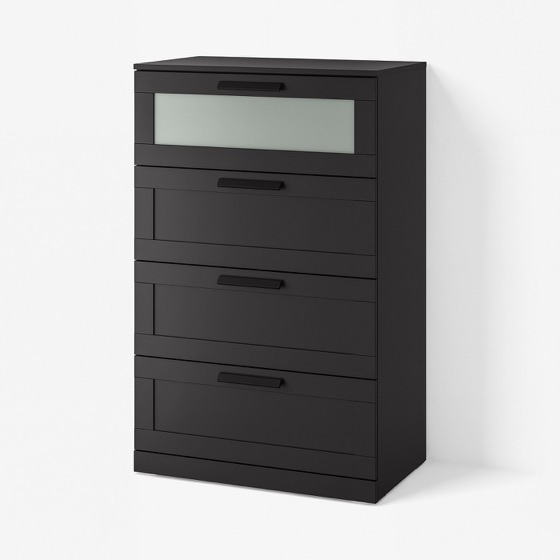
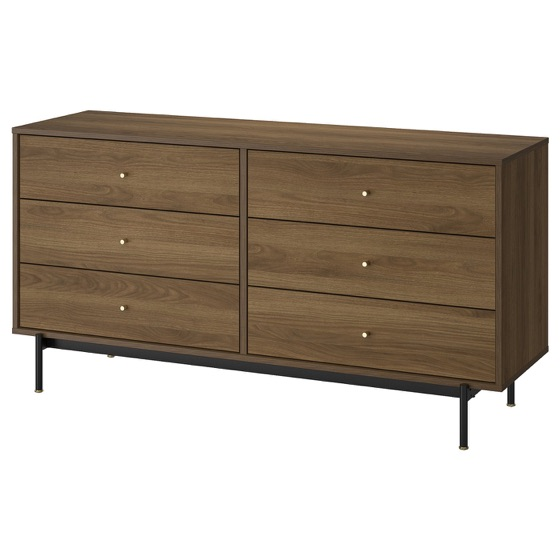
Deck: cut-out furniture, black/white/gray frosted-glass theme
- scripts/cutout_tiles.py removes the white studio background (local, no API)
- 16 product tiles are transparent PNGs with a soft shadow; dresser swapped
  for one with a clean backdrop
- THEME overrides: neutral palette, black pill buttons, glass nav/cards/footer,
  no lime; hide the sun doodle (no 'o' in Elephant)

diff --git a/deck/src/components/ui/loupe-curator-landing.tsx b/deck/src/components/ui/loupe-curator-landing.tsx
@@ -461,6 +461,21 @@ const CSS =
 
 /* ----------------------------------------------------------------- fonts */
 // Inter Tight (400, 700) and JetBrains Mono (500), both SIL OFL 1.1, subset and renamed per the licence.
+// Elephant look: black / white / gray with frosted glass, products as cut-outs (matches the app)
+const THEME =
+  ".lcl-root{--paper:#ececec;--ink:#141414;--soft:#8a8a8a;--card:rgba(255,255,255,.6);--lime:#141414;--onlime:#fff;--band:#d2d2d2;--rule:rgba(20,20,20,.12)}" +
+  ".dark .lcl-root{--paper:#111;--ink:#ececec;--soft:#8a8a8a;--card:rgba(34,34,34,.6);--lime:#ececec;--onlime:#111;--band:#2a2a2a;--rule:rgba(255,255,255,.12)}" +
+  ".lcl-root[data-golden]{--lime:#8a8a8a}" +
+  ".lcl-img.lcl-prod{background:transparent;padding:6%;filter:drop-shadow(0 16px 18px rgba(0,0,0,.16))}" +
+  ".lcl-th>img,.lcl-ft>img,.lcl-sc,.lcl-tile,.lcl-fly{box-shadow:none}" +
+  ".lcl-pic{border-radius:16px;background:linear-gradient(180deg,rgba(255,255,255,.75),rgba(255,255,255,.35));box-shadow:inset 0 0 0 1px rgba(255,255,255,.7)}" +
+  ".lcl-nav,.lcl-chip,.lcl-fcard,.lcl-plus,.lcl-grid{backdrop-filter:blur(26px) saturate(1.1);-webkit-backdrop-filter:blur(26px) saturate(1.1);box-shadow:inset 0 0 0 1px rgba(255,255,255,.55),0 12px 34px rgba(0,0,0,.08)}" +
+  ".lcl-nav{border-radius:999px;padding-left:20px}.lcl-btn{border-radius:999px}.lcl-chip{border-radius:999px}.lcl-plus{border-radius:50%}" +
+  ".lcl-grid{border-radius:28px 28px 0 0}.lcl-fcard{border-radius:28px}" +
+  ".lcl-bit:nth-child(3n){background:#9a9a9a}.lcl-bit:nth-child(4n){background:#141414}" +
+  ".lcl-clab{border-radius:999px}" +
+  ".lcl-root .lcl-btn-lime,.lcl-root .lcl-plus[data-on],.lcl-root .lcl-clab{background:var(--ink);color:var(--paper)}"
+
 const FONTS =
[2 lines of base64/hex data omitted]
@@ -1052,7 +1067,7 @@ export default function LoupeCuratorLanding({
       onPointerMove={onMove}
       onPointerLeave={onLeave}
     >
-      <style>{FONTS + CSS}</style>
+      <style>{FONTS + CSS + THEME}</style>
 
       {/* floating chrome */}
       <div className="lcl-chrome" ref={reg("chrome")}>
@@ -1314,9 +1329,11 @@ export default function LoupeCuratorLanding({
           </div>
           <p className="lcl-big2" aria-label={brand}>
             {sunAt < 0 ? brand : brand.slice(0, sunAt)}
-            <button type="button" className="lcl-sun" onClick={poke} data-cursor="Poke the sun" aria-label="Poke the sun">
-              <Sun />
-            </button>
+            {sunAt >= 0 && (
+              <button type="button" className="lcl-sun" onClick={poke} data-cursor="Poke the sun" aria-label="Poke the sun">
+                <Sun />
+              </button>
+            )}
             {sunAt < 0 ? null : brand.slice(sunAt + 1)}
           </p>
           <div className="lcl-frow lcl-mono">
@@ -1355,20 +1372,20 @@ const IMG: Record<string, string> = {
   "scene-3": "/img/scene-3.jpg",
   "scene-4": "/img/scene-4.jpg",
   "scene-5": "/img/scene-5.jpg",
-  "tile-sofa": "/img/tile-sofa.jpg",
-  "tile-armchair": "/img/tile-armchair.jpg",
-  "tile-coffee": "/img/tile-coffee.jpg",
-  "tile-side": "/img/tile-side.jpg",
-  "tile-floorlamp": "/img/tile-floorlamp.jpg",
-  "tile-pendant": "/img/tile-pendant.jpg",
-  "tile-rug": "/img/tile-rug.jpg",
-  "tile-shelf": "/img/tile-shelf.jpg",
-  "tile-bed": "/img/tile-bed.jpg",
-  "tile-nightstand": "/img/tile-nightstand.jpg",
-  "tile-dresser": "/img/tile-dresser.jpg",
-  "tile-desk": "/img/tile-desk.jpg",
-  "tile-dchair": "/img/tile-dchair.jpg",
-  "tile-stool": "/img/tile-stool.jpg",
-  "tile-mirror": "/img/tile-mirror.jpg",
-  "tile-cabinet": "/img/tile-cabinet.jpg",
+  "tile-sofa": "/img/tile-sofa.png",
+  "tile-armchair": "/img/tile-armchair.png",
+  "tile-coffee": "/img/tile-coffee.png",
+  "tile-side": "/img/tile-side.png",
+  "tile-floorlamp": "/img/tile-floorlamp.png",
+  "tile-pendant": "/img/tile-pendant.png",
+  "tile-rug": "/img/tile-rug.png",
+  "tile-shelf": "/img/tile-shelf.png",
+  "tile-bed": "/img/tile-bed.png",
+  "tile-nightstand": "/img/tile-nightstand.png",
+  "tile-dresser": "/img/tile-dresser.png",
+  "tile-desk": "/img/tile-desk.png",
+  "tile-dchair": "/img/tile-dchair.png",
+  "tile-stool": "/img/tile-stool.png",
+  "tile-mirror": "/img/tile-mirror.png",
+  "tile-cabinet": "/img/tile-cabinet.png",
 }

diff --git a/scripts/cutout_tiles.py b/scripts/cutout_tiles.py
@@ -1,0 +1,57 @@
+"""Remove the white studio background from product photos -> transparent PNGs.
+
+IKEA product shots sit on pure white. We flood-fill the near-white area that touches the image border
+(so white parts *inside* the product survive), fade it out, keep the soft floor shadow as a light
+translucent gray, and trim to the product.
+
+    python3 scripts/cutout_tiles.py deck/public/img/tile-*.jpg     # needs Pillow, numpy, scipy
+"""
+import sys
+from pathlib import Path
+
+import numpy as np
+from PIL import Image
+from scipy import ndimage
+
+SIZE = 640
+
+
+def cutout(src: Path) -> Path:
+    im = Image.open(src).convert("RGB")
+    a = np.asarray(im).astype(np.int16)
+    lo, hi = a.min(2), a.max(2)
+    # the backdrop is usually pure white but some shots use light gray: sample it from the border
+    border = np.concatenate([a[0], a[-1], a[:, 0], a[:, -1]])
+    bgc = np.median(border, axis=0)
+    dist = np.abs(a - bgc).max(2)
+    # pixels close to the backdrop color (or near-white) with low saturation are background candidates
+    cand = ((dist <= 14) | (lo >= 226)) & (hi - lo <= 16)
+    lab, _ = ndimage.label(cand)
+    edge = np.unique(np.concatenate([lab[0], lab[-1], lab[:, 0], lab[:, -1]]))
+    bg = np.isin(lab, edge[edge > 0])
+    # opacity inside the background region: pure white -> 0, light gray shadow -> faint
+    ref = min(250, bgc.min())
+    fade = np.clip((ref - lo) / 26.0, 0, 1) * 0.55
+    alpha = np.where(bg, fade, 1.0)
+    # soften the cut edge by 1px
+    alpha = ndimage.gaussian_filter(alpha, 0.8)
+    alpha = np.where(~bg, 1.0, alpha)
+    rgba = np.dstack([a.astype(np.uint8), (alpha * 255).astype(np.uint8)])
+    out = Image.fromarray(rgba)
+    box = out.getchannel("A").point(lambda v: 255 if v > 24 else 0).getbbox()
+    if box:
+        out = out.crop(box)
+    out.thumbnail((SIZE, SIZE), Image.LANCZOS)
+    # center on a square transparent canvas with a little air
+    side = int(max(out.size) * 1.1)
+    canvas = Image.new("RGBA", (side, side), (0, 0, 0, 0))
+    canvas.paste(out, ((side - out.width) // 2, (side - out.height) // 2))
+    dst = src.with_suffix(".png")
+    canvas.save(dst, optimize=True)
+    return dst
+
+
+if __name__ == "__main__":
+    for p in sys.argv[1:]:
+        d = cutout(Path(p))
+        print(f"{p} -> {d.name} ({d.stat().st_size // 1024} KB)")
